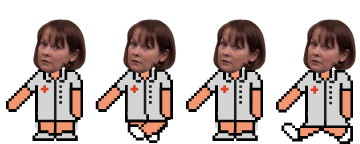
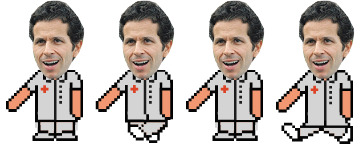
New sprites, level adjustments

diff --git a/play-neymar/sketch.js b/play-neymar/sketch.js
@@ -34,22 +34,22 @@ function preload() {
   imgCharacter = loadImage('images/character/neymar.png');
   imgCharacterDead = loadImage('images/character/neymar-dead.png');
   imgCharacterWin = loadImage('images/character/neymar-finished.png');
-  imgEnemyDwight = loadImage('images/enemies/dwight.png');
-  imgEnemyMichael = loadImage('images/enemies/michael.png');
-  imgEnemyFlyingMichael = loadImage('images/enemies/flying-michael.png');
-  imgEnemyJim = loadImage('images/enemies/jim.png');
-  imgEnemyAndy = loadImage('images/enemies/andy.png');
-  imgEnemyFlyingCreed = loadImage('images/enemies/flying-creed.png');
-  imgEnemyPam = loadImage('images/enemies/pam.png');
-  imgEnemyRyan = loadImage('images/enemies/ryan.png');
-  imgEnemyKelly = loadImage('images/enemies/kelly.png');
-  imgEnemyKevin = loadImage('images/enemies/kevin.png');
-  imgEnemyOscar = loadImage('images/enemies/oscar.png');
-  imgEnemyAngela = loadImage('images/enemies/angela.png');
-  imgEnemyFlyingPrisonMike = loadImage('images/enemies/flying-prison-mike.png');
-  imgEnemyJimAsDwight = loadImage('images/enemies/jim-dwight.png');
+  imgEnemyDwight = loadImage('images/enemies/futebol/messi.png');
+  imgEnemyMichael = loadImage('images/enemies/futebol/muller.png');
+  imgEnemyFlyingMichael = loadImage('images/enemies/futebol/flying-modric.png');
+  imgEnemyJim = loadImage('images/enemies/futebol/cr7.png');
+  imgEnemyAndy = loadImage('images/enemies/futebol/fagner.png');
+  imgEnemyFlyingCreed = loadImage('images/enemies/futebol/flying-pikachu.png');
+  imgEnemyPam = loadImage('images/enemies/futebol/lewa.png');
+  imgEnemyRyan = loadImage('images/enemies/futebol/ganso.png');
+  imgEnemyKelly = loadImage('images/enemies/futebol/gabigol.png');
+  imgEnemyKevin = loadImage('images/enemies/futebol/salah.png');
+  imgEnemyOscar = loadImage('images/enemies/futebol/cr7.png');
+  imgEnemyAngela = loadImage('images/enemies/futebol/messi.png');
+  imgEnemyFlyingPrisonMike = loadImage('images/enemies/futebol/flying-van-dijk.png');
+  imgEnemyJimAsDwight = loadImage('images/enemies/futebol/firmino.png');
   imgEnemyMeredith = loadImage('images/enemies/meredith.png');
-  imgEnemyToby = loadImage('images/enemies/toby.png');
+  imgEnemyToby = loadImage('images/enemies/futebol/honda.png');
   imgEnemyFlyingPhyllis = loadImage('images/enemies/flying-phyllis.png');
   imgFirstAid = loadImage('images/assets/first-aid.png');
   imgFirstAidResponder = loadImage('images/assets/first-aid-responder.png');
@@ -68,14 +68,14 @@ function preload() {
   failTheme = loadSound('sounds/fail.mp3');
   deathTheme = loadSound('sounds/death.wav');
   endTheme = loadSound('sounds/end.mp3');
-  firstAidTheme = loadSound('sounds/death-michael.mp3');
+  // firstAidTheme = loadSound('sounds/death-michael.mp3');
   
   jumpTheme.setVolume(0.7);
   powerUpTheme.setVolume(0.1);
   failTheme.setVolume(0.7);
   deathTheme.setVolume(0.5);
   endTheme.setVolume(0.5);
-  firstAidTheme.setVolume(0.5);
+  // firstAidTheme.setVolume(0.5);
   
   parkourMichaelTheme = loadSound('sounds/parkour-michael.mp3');
   parkourDwightTheme = loadSound('sounds/parkour-dwight.mp3');
@@ -443,7 +443,7 @@ function isBusinessHours() {
 function drawPauseMenu() {
   drawWhiteBoard(0);
   
-  let title = "Game paused";
+  let title = "Pause";
   
   P5Style.titleStyle();
   text(title, width/2, height * 1/6 + 35);
@@ -918,7 +918,7 @@ function drawScoreBoard(title, offsetX) {
   rect(width * 1/4 + offsetX, 240, width * 1/2, height * 1/7, 10);
   
   P5Style.clockCountStyle();
-  text("Total score:", 190 + offsetX, height * 1/6 + 215);
+  text("Total:", 190 + offsetX, height * 1/6 + 215);
   textAlign(RIGHT);
   text(score.totalScore, 430 + offsetX, height * 1/6 + 215);
 }

diff --git a/play-neymar/scripts/game/score.js b/play-neymar/scripts/game/score.js
@@ -53,43 +53,58 @@ class Score {
             this.imgClock = this.imgClockNormal;
         }
 
-        image(this.imgClock, width - 145, 7, 30, 30);
+        if (this.scoreDay < 6) {
+            image(this.imgClock, width - 145, 7, 30, 30);
 
-        text(this.n(this.scoreMinuteFootball.toFixed(0)) + "'" + this.n(this.scoreSecondFootball.toFixed(0)) + "\"", width-110, 30);
+            text(this.n(this.scoreMinuteFootball.toFixed(0)) + "'" + this.n(this.scoreSecondFootball.toFixed(0)) + "\"", width-110, 30);
+        }
 
-        text(this.n(this.scoreHour) + "h" + this.n(this.scoreMinute), width - 110, 60);
+        // text(this.n(this.scoreHour) + "h" + this.n(this.scoreMinute), width - 110, 60);
     }
 
     increaseScore() {
         this.scoreSecond = this.scoreSecond + this.timeStepSecond;
-        if (this.scoreSecond >= 60) {
-            this.scoreMinute = this.scoreMinute + this.timeStepMinute;
-            this.scoreSecond = 0;
 
-            if (this.scoreMinute >= 60) {
-                this.scoreHour = this.scoreHour + this.timeStepHour;
-                this.scoreMinute = 0;
-
-                if (this.scoreHour >= 17 || this.scoreHour < 9) {
-                    this.timeStepSecond = 60;
-                    this.timeStepMinute = 3;
-                }
-                else {
-                    this.timeStepSecond = 9;
-                    this.timeStepMinute = 1;
-                }
-
-                if (this.scoreHour > 23) {
-                    this.dayToBeIncremented = true;;
-                    this.scoreHour = 0;
-                }
-                else if (this.scoreHour === 9 && this.dayToBeIncremented === true) {
-                    this.scoreDay++;
-                    this.dayToBeIncremented = false;
+        if (this.scoreDay < 6) {
+            if (this.scoreSecond >= 60) {
+                this.scoreMinute = this.scoreMinute + this.timeStepMinute;
+                this.scoreSecond = 0;
+                
+                if (this.scoreMinute >= 60) {
+                    this.scoreHour = this.scoreHour + this.timeStepHour;
+                    this.scoreMinute = 0;
+                    
+                    if (this.scoreHour >= 17 || this.scoreHour < 9) {
+                        this.timeStepSecond = 60;
+                        this.timeStepMinute = 3;
+                    }
+                    else {
+                        this.timeStepSecond = 9;
+                        this.timeStepMinute = 1;
+                    }
+                    
+                    if (this.scoreHour > 23) {
+                        this.dayToBeIncremented = true;;
+                        this.scoreHour = 0;
+                    }
+                    else if (this.scoreHour === 9 && this.dayToBeIncremented === true) {
+                        this.scoreDay++;
+                        this.dayToBeIncremented = false;
+                    }
                 }
             }
         }
+        else {
+            this.scoreHour = 9;
+            this.timeStepSecond = 9;
+            this.timeStepMinute = 1;
 
+            if (this.scoreSecond >= 60) {
+                this.scoreMinute = this.scoreMinute + this.timeStepMinute;
+                this.scoreSecond = 0;
+            }
+        }
+        
         this.scoreMinuteFootball = (((this.scoreHour - 9) * 60 + this.scoreMinute) * 90/480);
         this.scoreSecondFootball = ((((this.scoreHour - 9) * 60 + this.scoreMinute) * 60 + this.scoreSecond) * 90/480) % 60;
         if (this.scoreMinuteFootball >= 90 || this.scoreMinuteFootball < 0) {

diff --git a/play-neymar/scripts/game/character-min.js b/play-neymar/scripts/game/character-min.js
@@ -1,1 +1,1 @@
-class Character extends Animation{constructor(i,t,h,s,e,a,r,g,n,o){super(i,t,h,s,e,a,r,g),this.initialY=height-this.characterHeight-this.offsetY,this.y=this.initialY,this.floor=this.initialY,this.gravity=2,this.jumpSpeed=0,this.jumpLimit=2,this.jumpCount=0,this.originalImg=t,this.imgDead=n,this.imgWin=o,this.originalWidth=this.characterWidth,this.originalHeight=this.characterHeight}jump(){this.jumpCount<this.jumpLimit&&(jumpTheme.play(),this.jumpSpeed=-30,this.jumpCount++)}applyGravity(){this.y=this.y+this.jumpSpeed,this.jumpSpeed=this.jumpSpeed+this.gravity,this.y>this.floor&&(this.y=this.floor,this.jumpCount=0)}isColliding(i){return collideRectRect(this.x,this.y,.6*this.characterWidth,.8*this.characterHeight,i.x,i.y,.6*i.characterWidth,.8*i.characterHeight)}changeState(i){if(i===typeDeath){if(this.jumpLimit=0,this.currentFrame=0,!isGameStopped&&(deathTheme.play(),life.firstAid>0)){setTimeout((function(){firstAidTheme.play()}),500)}this.img=this.imgDead,this.lieDown()}else i===typeLevelFinish?this.img=this.imgWin:i===typeNormal&&(this.img=this.originalImg)}restart(){this.img=this.originalImg,this.standUp(),this.jumpLimit=2,this.animate()}lieDown(){this.characterWidth=this.originalHeight,this.characterHeight=this.originalWidth,this.spriteWidth=this.originalHeight,this.spriteHeight=this.originalWidth,this.floor=this.initialY+(this.originalHeight-this.originalWidth)}standUp(){this.characterWidth=this.originalWidth,this.characterHeight=this.originalHeight,this.spriteWidth=this.originalWidth,this.spriteHeight=this.originalHeight,this.floor=this.initialY}}
+class Character extends Animation{constructor(i,t,h,s,e,a,r,g,n,o){super(i,t,h,s,e,a,r,g),this.initialY=height-this.characterHeight-this.offsetY,this.y=this.initialY,this.floor=this.initialY,this.gravity=2,this.jumpSpeed=0,this.jumpLimit=2,this.jumpCount=0,this.originalImg=t,this.imgDead=n,this.imgWin=o,this.originalWidth=this.characterWidth,this.originalHeight=this.characterHeight}jump(){this.jumpCount<this.jumpLimit&&(jumpTheme.play(),this.jumpSpeed=-30,this.jumpCount++)}applyGravity(){this.y=this.y+this.jumpSpeed,this.jumpSpeed=this.jumpSpeed+this.gravity,this.y>this.floor&&(this.y=this.floor,this.jumpCount=0)}isColliding(i){return collideRectRect(this.x,this.y,.6*this.characterWidth,.8*this.characterHeight,i.x,i.y,.6*i.characterWidth,.8*i.characterHeight)}changeState(i){i===typeDeath?(this.jumpLimit=0,this.currentFrame=0,isGameStopped||(deathTheme.play(),life.firstAid),this.img=this.imgDead,this.lieDown()):i===typeLevelFinish?this.img=this.imgWin:i===typeNormal&&(this.img=this.originalImg)}restart(){this.img=this.originalImg,this.standUp(),this.jumpLimit=2,this.animate()}lieDown(){this.characterWidth=this.originalHeight,this.characterHeight=this.originalWidth,this.spriteWidth=this.originalHeight,this.spriteHeight=this.originalWidth,this.floor=this.initialY+(this.originalHeight-this.originalWidth)}standUp(){this.characterWidth=this.originalWidth,this.characterHeight=this.originalHeight,this.spriteWidth=this.originalWidth,this.spriteHeight=this.originalHeight,this.floor=this.initialY}}

diff --git a/play-neymar/scripts/variables.js b/play-neymar/scripts/variables.js
@@ -122,47 +122,18 @@ const gameMap = [
           {
             enemyId: indexEnemyJim,
             speed: 12
-          },
-          {
-            enemyId: indexEnemyFlyingMichael,
-            speed: 15
           }
         ],
         duration: 50
       },
       {
         enemies: [
-          {
-            enemyId: indexEnemyPam,
-            speed: 8
-          },
           {
             enemyId: indexEnemyDwight,
-            speed: 10
-          },
-          {
-            enemyId: indexEnemyJimAsDwight,
-            speed: 12
-          },
-          {
-            enemyId: indexEnemyFlyingPrisonMike,
-            speed: 15
-          }
-        ],
-        duration: 50
-      },
-      {
-        enemies: [
-          {
-            enemyId: indexEnemyToby,
             speed: 8
           },
           {
-            enemyId: indexEnemyRyan,
-            speed: 12
-          },
-          {
-            enemyId: indexEnemyKelly,
+            enemyId: indexEnemyJim,
             speed: 12
           },
           {
@@ -170,28 +141,7 @@ const gameMap = [
             speed: 15
           }
         ],
-        duration: 50
-      },
-      {
-        enemies: [
-          {
-            enemyId: indexEnemyKevin,
-            speed: 7
-          },
-          {
-            enemyId: indexEnemyOscar,
-            speed: 10
-          },
-          {
-            enemyId: indexEnemyAngela,
-            speed: 14
-          },
-          {
-            enemyId: indexEnemyFlyingPrisonMike,
-            speed: 12
-          }
-        ],
-        duration: 50
+        duration: 5000
       }
     ]
   },
@@ -273,7 +223,7 @@ const gameMap = [
             speed: 14
           },
           {
-            enemyId: indexEnemyFlyingCreed,
+            enemyId: indexEnemyFlyingMichael,
             speed: 10
           }
         ],
@@ -290,7 +240,7 @@ const gameMap = [
             speed: 15
           },
           {
-            enemyId: indexEnemyFlyingCreed,
+            enemyId: indexEnemyFlyingMichael,
             speed: 10
           }
         ],
@@ -307,7 +257,7 @@ const gameMap = [
             speed: 14
           },
           {
-            enemyId: indexEnemyFlyingCreed,
+            enemyId: indexEnemyFlyingMichael,
             speed: 10
           }
         ],
@@ -324,7 +274,7 @@ const gameMap = [
             speed: 15
           },
           {
-            enemyId: indexEnemyFlyingCreed,
+            enemyId: indexEnemyFlyingMichael,
             speed: 12
           }
         ],
@@ -350,7 +300,7 @@ const gameMap = [
             speed: 12
           },
           {
-            enemyId: indexEnemyFlyingMichael,
+            enemyId: indexEnemyFlyingCreed,
             speed: 15
           }
         ],

diff --git a/play-neymar/scripts/game/character.js b/play-neymar/scripts/game/character.js
@@ -62,11 +62,11 @@ class Character extends Animation {
                 deathTheme.play();
 
                 if (life.firstAid > 0) {
-                    function playFirstAidTheme() {
-                        firstAidTheme.play();
-                    }
+                    // function playFirstAidTheme() {
+                    //     firstAidTheme.play();
+                    // }
     
-                    setTimeout(playFirstAidTheme, 500);
+                    // setTimeout(playFirstAidTheme, 500);
                 }
             }
             this.img = this.imgDead;
